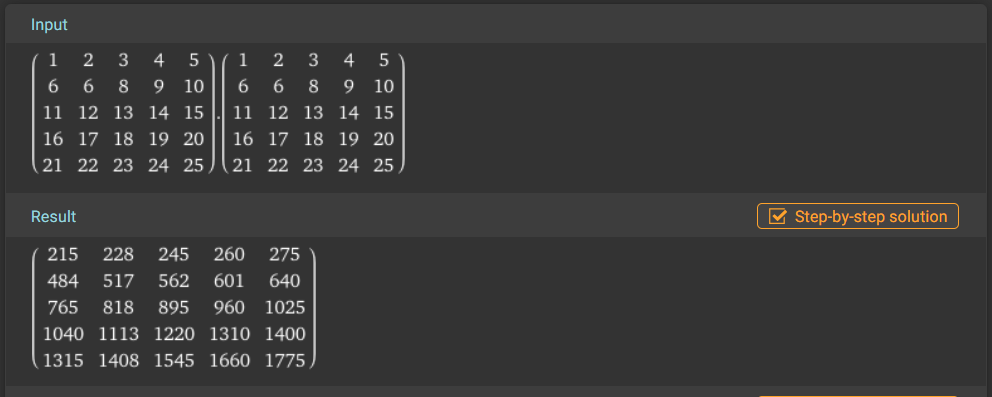
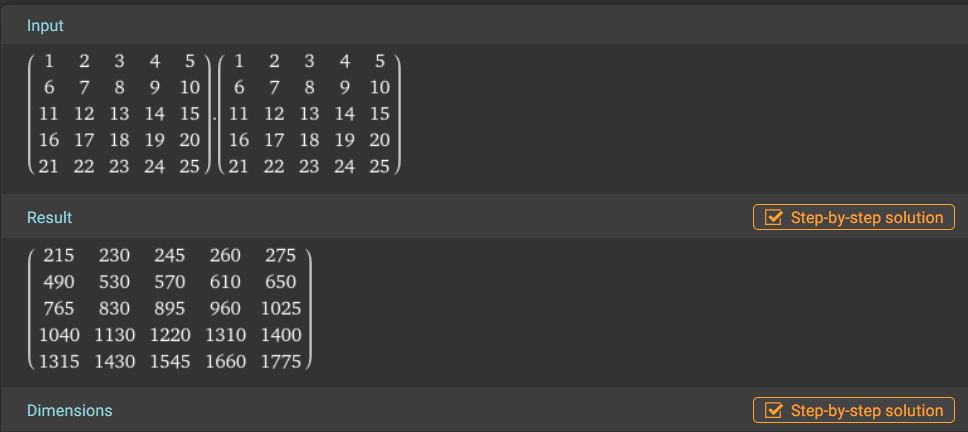
Ajustando figuras

diff --git a/README.md b/README.md
@@ -170,7 +170,7 @@ Dada a matriz:
 
 $$ M = \begin{pmatrix}
 & 1 & 2 & 3 & 4 & 5 \\
-& 6 & 6 & 8 & 9 & 10 \\
+& 6 & 7 & 8 & 9 & 10 \\
 & 11 & 12 & 13 & 14 & 15 \\
 & 16 & 17 & 18 & 19 & 20 \\
 & 21 & 22 & 23 & 24 & 25 \\
